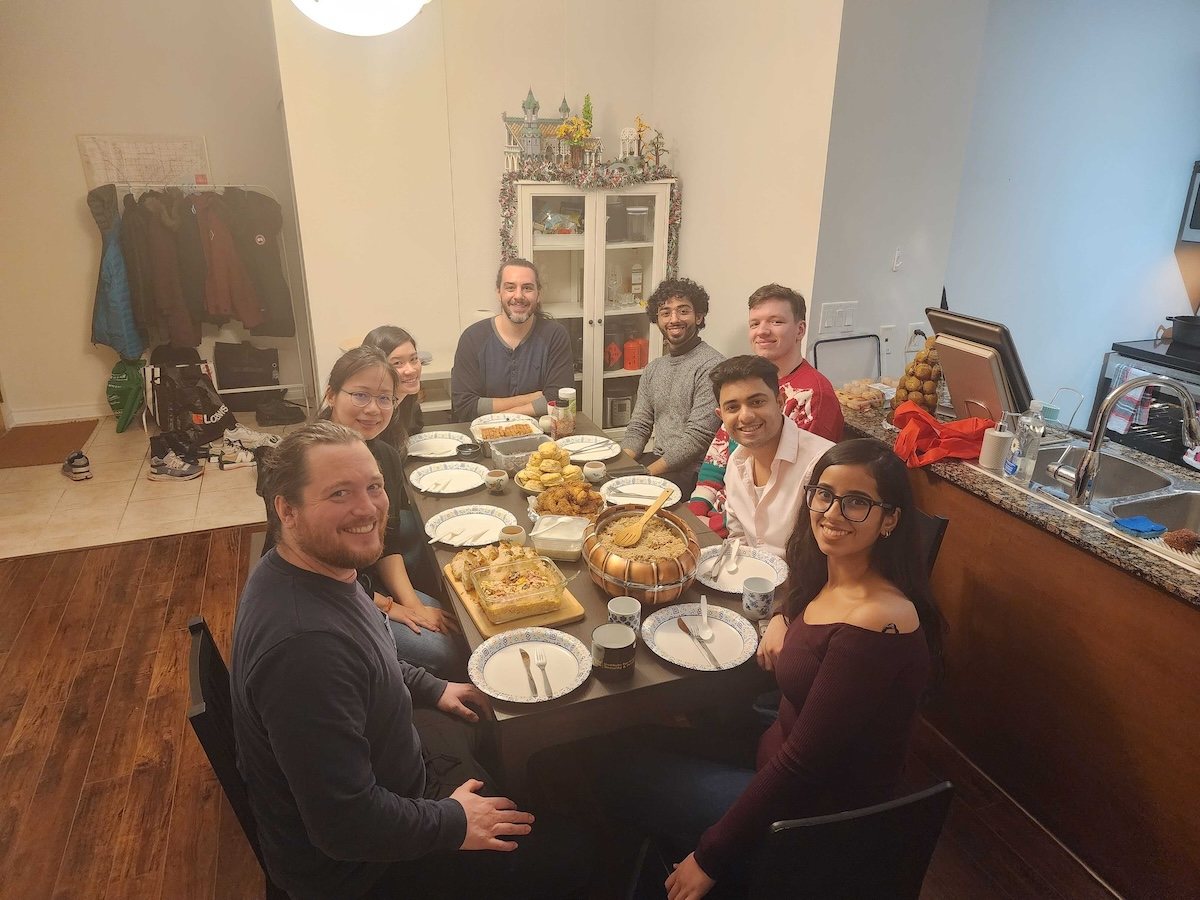
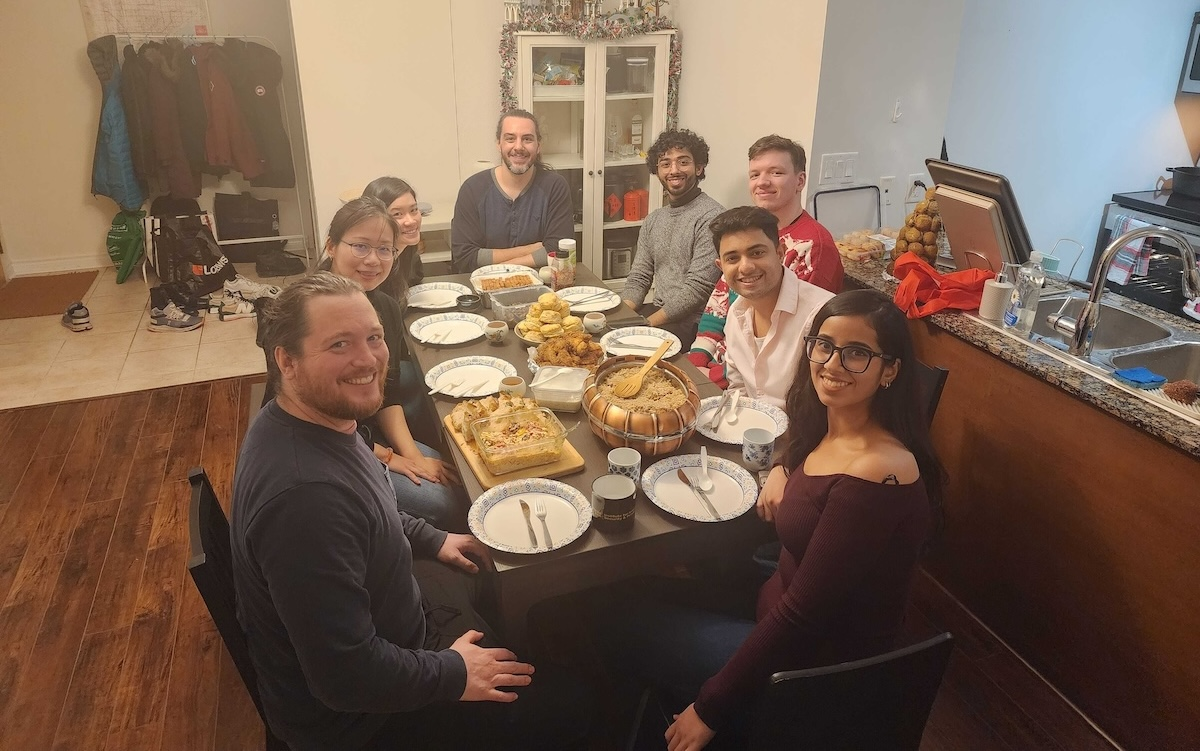
updating carousel

diff --git a/index.html b/index.html
@@ -16,6 +16,7 @@ title: Home
           <li data-target="#cultureCarousel" data-slide-to="2"></li>
           <li data-target="#cultureCarousel" data-slide-to="3"></li>
           <li data-target="#cultureCarousel" data-slide-to="4"></li>
+          <li data-target="#cultureCarousel" data-slide-to="5"></li>
         </ol>
 
         <div class="carousel-inner" role="listbox">
@@ -36,6 +37,10 @@ title: Home
           </div>
           <div class="item">
             <img src="{{ site.baseurl }}/images/carousel/5.jpg" alt="Slide 5" class="img-fluid" loading="lazy"
+              decoding="async" />
+          </div>
+          <div class="item">
+            <img src="{{ site.baseurl }}/images/carousel/6.jpg" alt="Slide 6" class="img-fluid" loading="lazy"
               decoding="async" />
           </div>
         </div>
